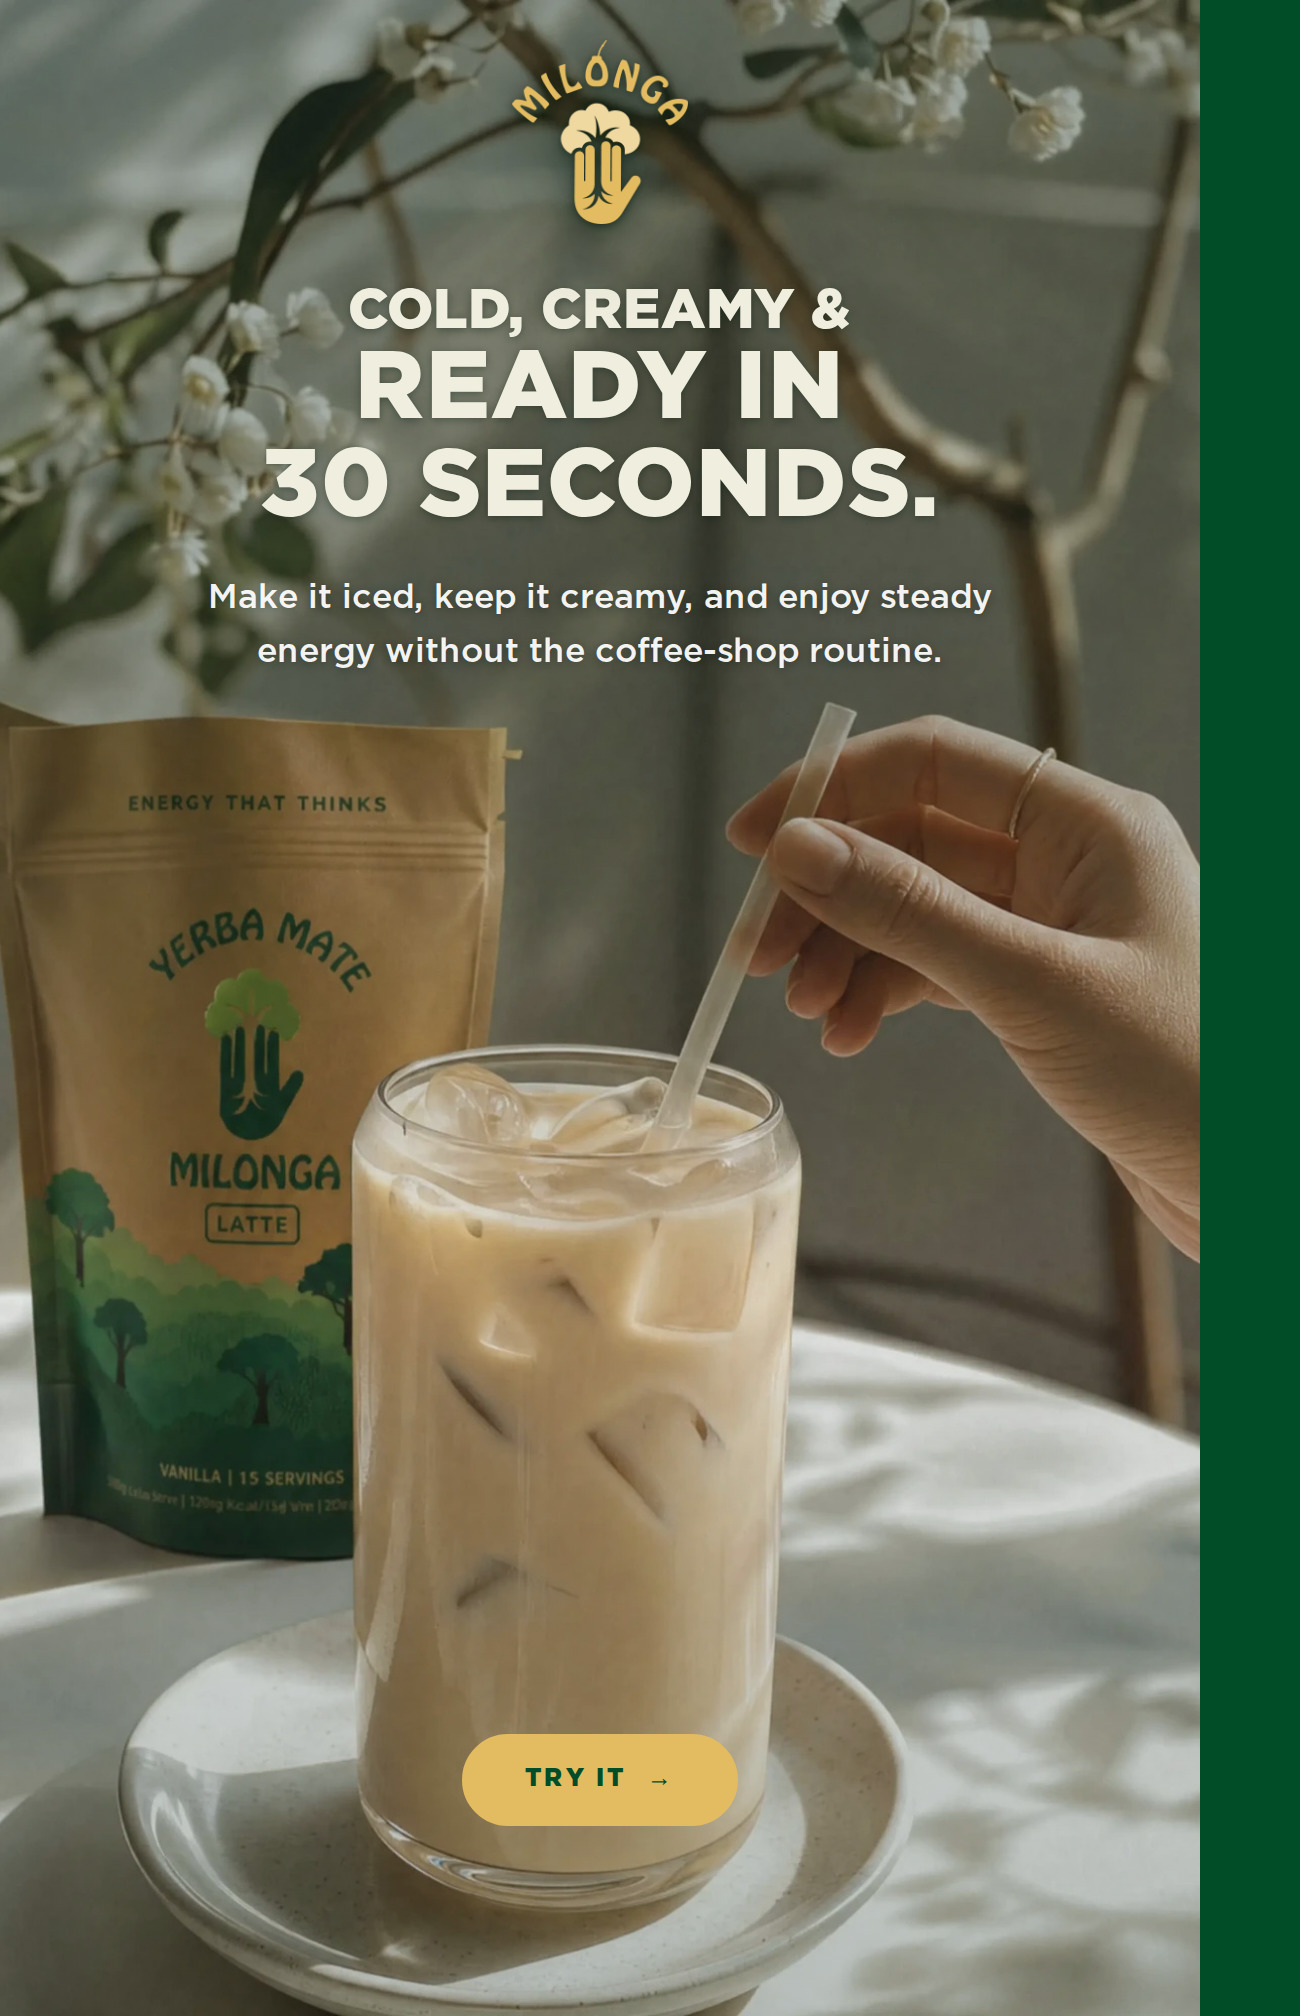
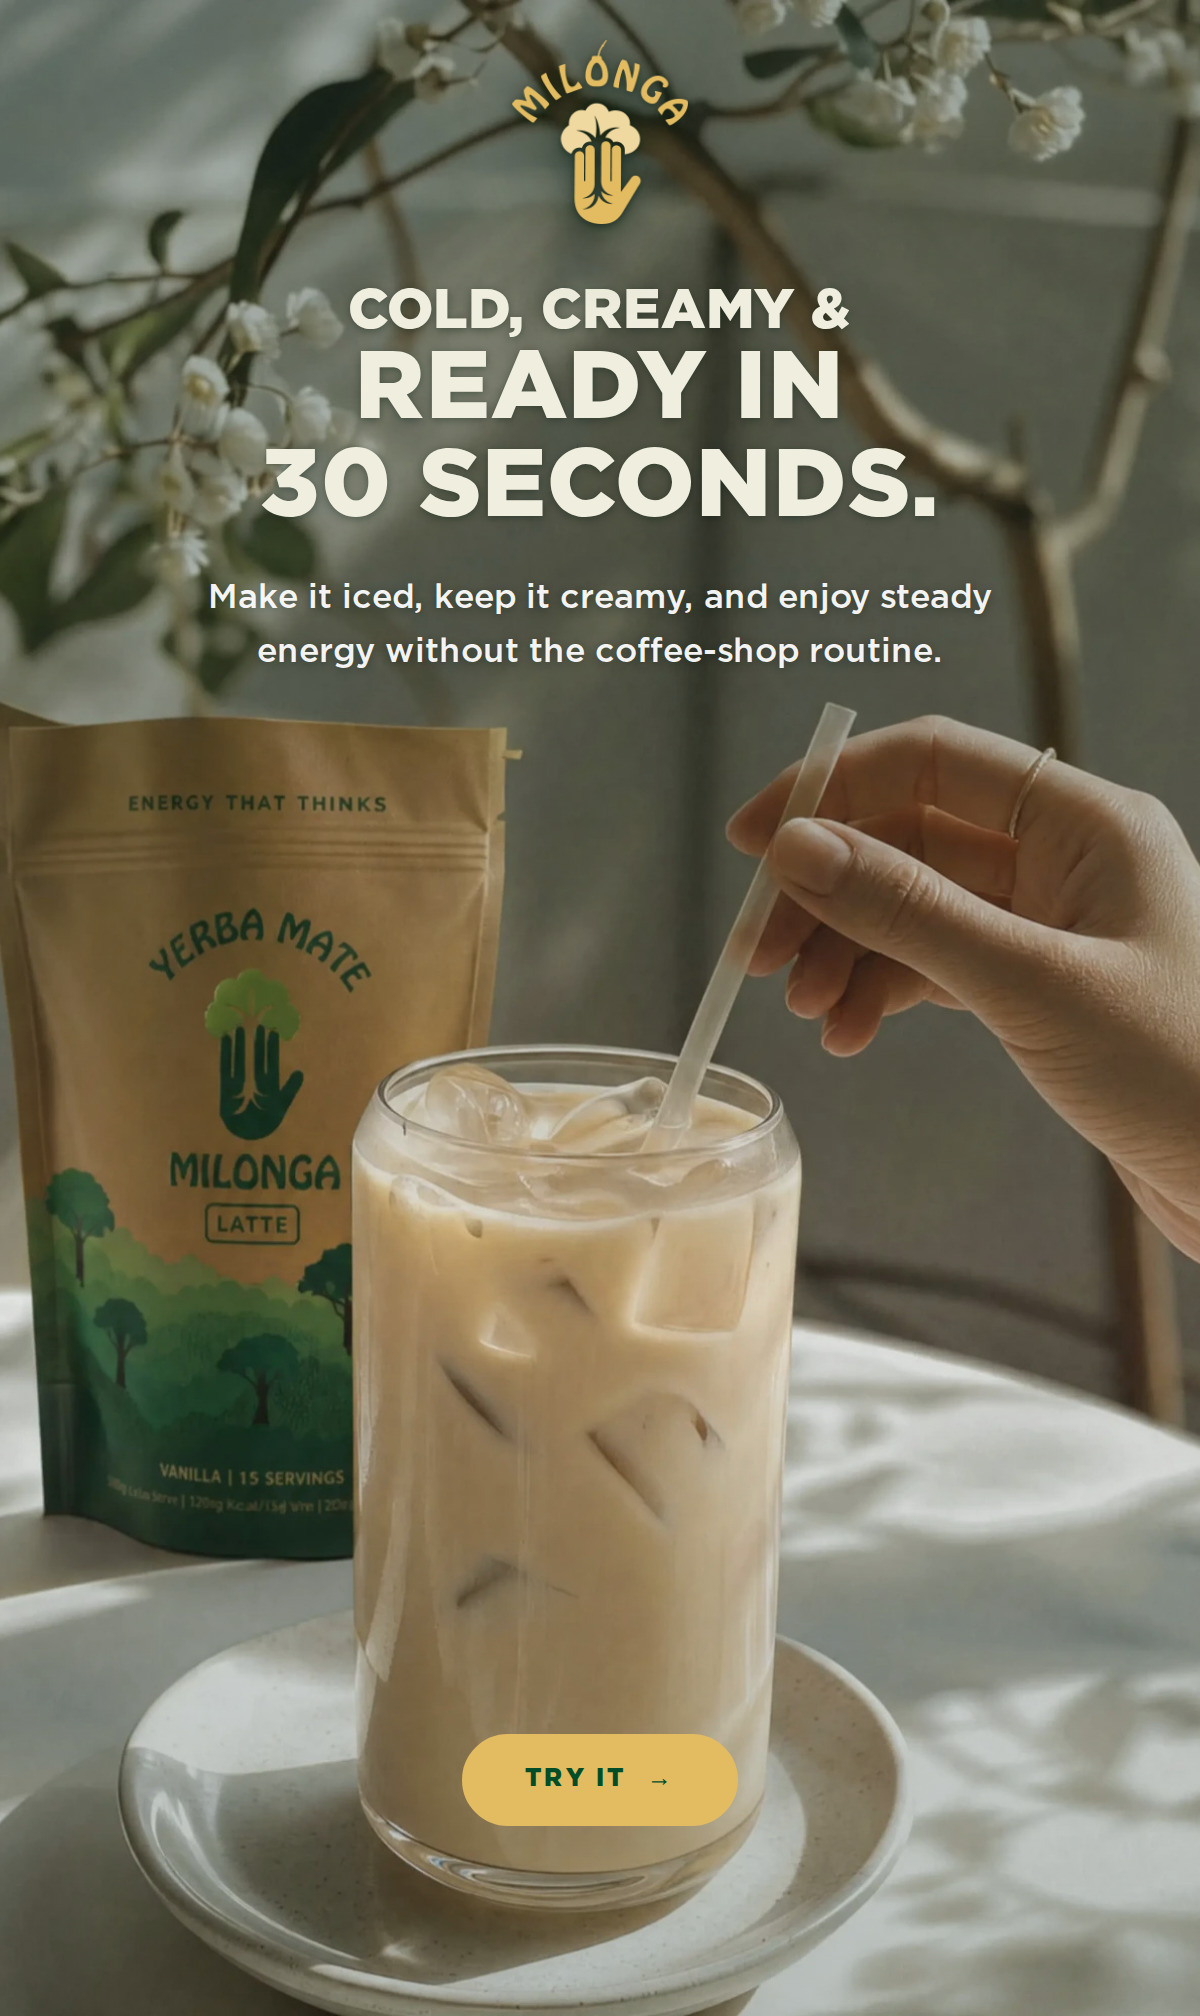
email: the real Golden Vanilla Mate cutout, and four edits with it
The supplied file goes in as the recipe picture. It is already a clean
cutout — 74% of its pixels are fully transparent — so it sits on the beige
with no seam and no correction. Trimmed to its own subject first, which is
free size, then run at 330 units against the 228 it started at.

THE GREEN STRIP WAS THE MISSING CLIP. The jar bleeds past the right edge on
purpose, and with nothing clipping it that overflow widened the whole page:
the export came out 1300 wide instead of 1200, with 100 units of the page's
own forest down the right-hand side. The section has overflow hidden now and
the export is 1200 again.

The list drops 15 -> 13, which is what pays for the rest of the picture.
Measured on the render this face runs about 8.15 units a character at 15, so
the longest ingredient needs 293 there and 254 at 13, and the column comes in
336 -> 272.

GOLD ON BEIGE, MEASURED AND FLAGGED. "GOLDEN" and the step numerals are gold
as asked. Against this ground gold is 1.56:1, where forest is 8.67:1 — it is
the pairing the beige rule exists to prevent, and it is why every other
element on this ground is one dark green. Both survive here because they are
large and because nothing depends on reading them, but goldDeep (#C9A24E) is
2.07:1 if they want the colour with a third more separation.

Claude-Session: https://claude.ai/code/session_01NhEtXPnfeCJfN73SqBkUZ5

diff --git a/email-ds/emails/how-to-make-it.jsx b/email-ds/emails/how-to-make-it.jsx
@@ -85,12 +85,18 @@ function HowToMakeIt() {
     // ON BEIGE THE INK IS ONE DARK GREEN. Gold measures about 1.5:1 here, so
     // it is a fill and never type — which is why the bullets are the GREEN
     // mark rather than the gold one the photographic slides use.
-    h('div', { style: { ...M.bgStyle('beige', M.bgFill.beige, true), padding: '56px 30px 60px' } },
+    // overflow hidden. The jar runs past the right edge on purpose, and
+    // without a clip here that overflow widened the whole page: the export
+    // came out 1300 wide instead of 1200, with 100 units of the page's own
+    // forest showing down the right-hand side.
+    h('div', { style: { ...M.bgStyle('beige', M.bgFill.beige, true), padding: '56px 30px 60px',
+      position: 'relative', overflow: 'hidden' } },
 
       h('div', { style: { textAlign: 'center' } },
         h('div', { style: { fontFamily: 'Gotham, Montserrat, sans-serif', fontWeight: 900,
           fontSize: 36, letterSpacing: '0.01em', textTransform: 'uppercase',
-          lineHeight: 1.02, color: '#004D27' } }, 'Golden Vanilla Mate'),
+          lineHeight: 1.02, color: '#004D27' } },
+          h('span', { style: { color: '#E3BC62' } }, 'Golden'), ' Vanilla Mate'),
         h('div', { style: { fontFamily: 'Gotham, Montserrat, sans-serif', fontWeight: 500,
           fontSize: 17, lineHeight: 1.5, color: '#1A1A1A', maxWidth: 440,
           margin: '20px auto 0' } },
@@ -103,20 +109,19 @@ function HowToMakeIt() {
       // on all four sides is a sticker; the same object crossing the edge is
       // a photograph.
       //
-      // THE BLEED IS WHAT BREAKS THE TRADE. Inside the container the list and
-      // the jar compete for 540 units, and the list cannot give up much: its
-      // longest line — "Optional: cinnamon stick for garnish" — measures 293
-      // at 15, plus the 16 the bullet and its gap take, so the column has to
-      // stay above 309. But the jar does not have to live inside the
-      // container. Running it 80 past the right edge rather than 36 takes the
-      // crop off the SLEEVE, where there is nothing to lose, and pays for a
-      // 296-unit jar beside a 312-unit list — 228 before.
+      // THE BLEED AND THE TYPE SIZE BOTH PAY FOR THE PICTURE. Measured on the
+      // render, this face runs about 8.15 units a character at 15, so the
+      // longest line — "Optional: cinnamon stick for garnish", 36 characters
+      // — needs 293 there and 254 at 13, plus the 16 the bullet and its gap
+      // take. A 272 column holds it. The jar keeps running 80 units past the
+      // right edge, where the crop comes off the SLEEVE and costs nothing,
+      // and the two together take it to 330 against the 228 it started at.
       //
       // 15 is one step under the system's 16 body floor. Flagged rather than
       // taken quietly: it is a spec list of short phrases, not running copy,
       // and it is the only type in either email below the floor.
       h('div', { style: { position: 'relative', marginTop: 40, minHeight: 250 } },
-        h('div', { style: { width: 312 } },
+        h('div', { style: { width: 272 } },
           h('div', { style: { fontFamily: 'Gotham, Montserrat, sans-serif', fontWeight: 900,
             fontSize: 13, letterSpacing: '0.2em', textTransform: 'uppercase',
             color: '#004D27', marginBottom: 16 } }, 'What you’ll need'),
@@ -132,14 +137,16 @@ function HowToMakeIt() {
           ].map((t, i) => h('div', { key: i,
             style: { display: 'flex', alignItems: 'flex-start', gap: 8, marginBottom: 7 } },
             h('img', { src: '../public/logo/mark-green.png', alt: '',
-              style: { height: 12, width: 'auto', flex: 'none', display: 'block', marginTop: 4 } }),
+              style: { height: 11, width: 'auto', flex: 'none', display: 'block', marginTop: 3 } }),
             h('span', { style: { fontFamily: 'Gotham, Montserrat, sans-serif', fontWeight: 500,
-              fontSize: 15, lineHeight: 1.45, color: '#1A1A1A' } }, t),
+              fontSize: 13, lineHeight: 1.45, color: '#1A1A1A' } }, t),
           )),
         ),
-        h('img', { src: '../public/product/jar-in-hand.png',
-          alt: 'A hand holding a tall glass jar of iced Milonga Mate Latte, embossed with the Milonga hand.',
-          style: { position: 'absolute', right: -80, top: 0, width: 296,
+        // The supplied cutout, trimmed to its own subject — the file carried
+        // 74% empty pixels, and trimming them is free size.
+        h('img', { src: '../public/product/jar-golden-vanilla.png',
+          alt: 'A hand holding a glass jar of Golden Vanilla Mate, dusted with cinnamon and streaked with honey, embossed with the Milonga hand.',
+          style: { position: 'absolute', right: -80, top: -4, width: 330,
                    height: 'auto', display: 'block' } }),
       ),
 
@@ -157,7 +164,7 @@ function HowToMakeIt() {
         ].map(([n, title, text], i) => h('div', { key: i,
           style: { display: 'flex', alignItems: 'flex-start', gap: 16, marginBottom: 22 } },
           h('div', { style: { fontFamily: 'Gotham, Montserrat, sans-serif', fontWeight: 900,
-            fontSize: 30, lineHeight: 1, color: 'rgba(0,77,39,0.34)', flex: 'none',
+            fontSize: 30, lineHeight: 1, color: '#E3BC62', flex: 'none',
             width: 48 } }, n),
           h('div', null,
             h('div', { style: { fontFamily: 'Gotham, Montserrat, sans-serif', fontWeight: 900,
